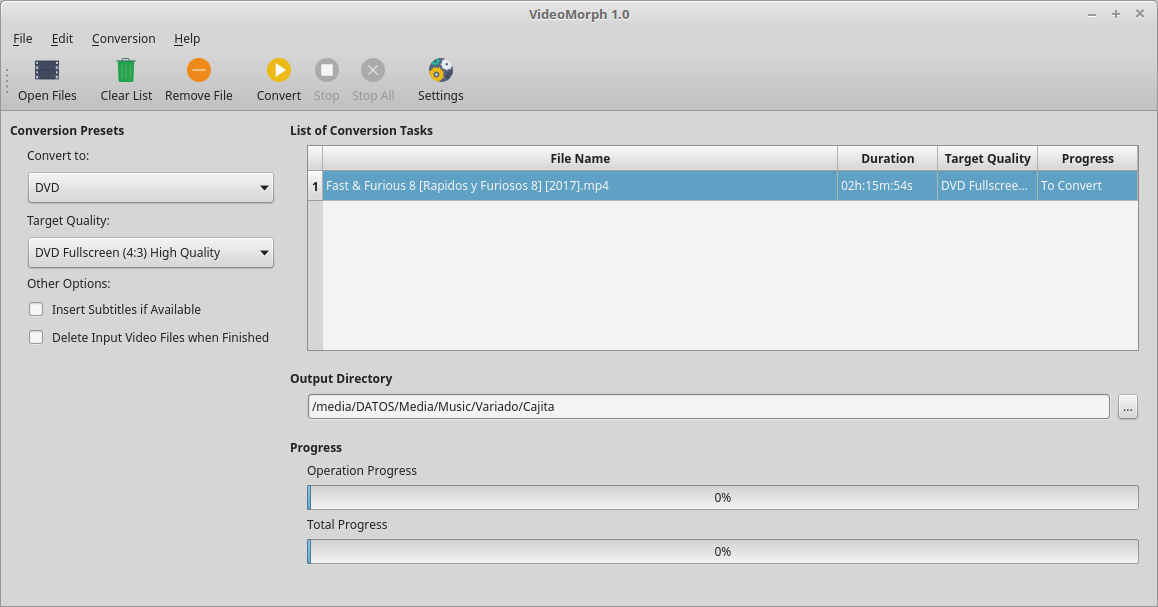
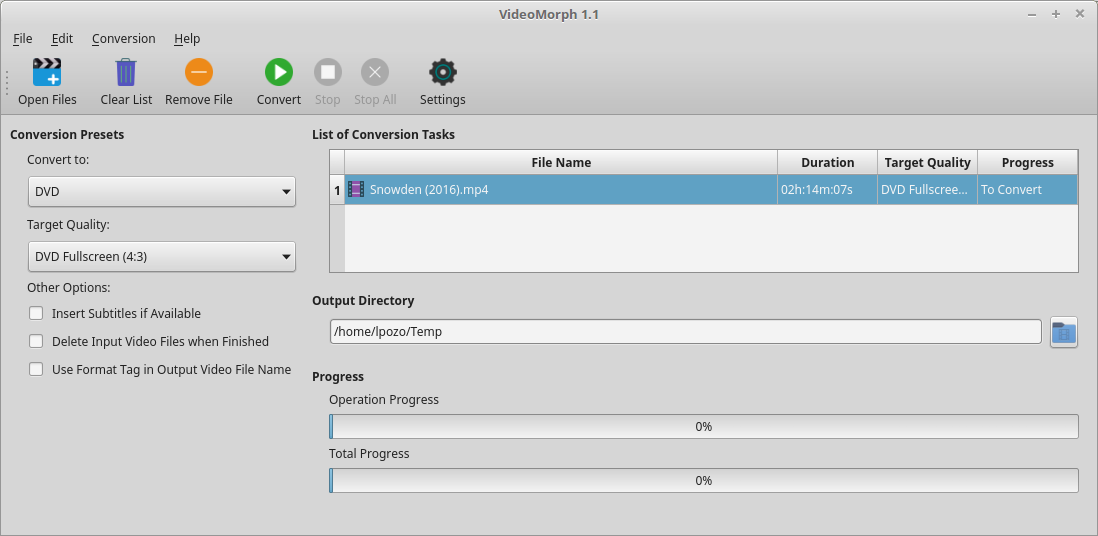
Final Chages for Releasing v1.1

Changed region(s): [[0.0, 0.0597, 0.9909, 0.9552], [0.4335, 0.0, 0.5574, 0.0597], [0.9599, 0.0, 0.9909, 0.0299]]

diff --git a/setup.py b/setup.py
@@ -30,11 +30,11 @@ from videomorph import VM_PATHS
 
 
 LONG_DESC = """Small Video Converter based on ffmpeg, Python 3 and Qt5.
-Unlike other video converters, VideoMorph focuses on a single task,
-convert video, making it simple, easy to use and allowing the user
-choose from a list of popular video formats.
+Unlike other video converters, VideoMorph focuses on a single goal:
+make video conversion simple, with an easy to use GUI and allowing
+the user to convert to the currently most popular video formats.
 
-VideoMorph UI is simple and clean focused on usability, eliminating
+VideoMorph GUI is simple and clean, focused on usability, eliminating
 annoying options rarely used.
 VideoMorph is a video converter, just that. If you want a video
 editor, VideoMorph isn't for you.

diff --git a/videomorph/converter/utils.py b/videomorph/converter/utils.py
@@ -20,15 +20,15 @@
 """This module contains some utilities and functions."""
 
 import os
+from locale import getdefaultlocale
 from subprocess import PIPE
 from subprocess import Popen
 
 
 def get_locale():
     """Return the default locale string."""
-    # return ('es_ES' if getdefaultlocale()[0] == 'es_CU' else
-    #         getdefaultlocale()[0])
-    return 'es_ES'
+    return ('es_ES' if getdefaultlocale()[0] == 'es_CU' else
+            getdefaultlocale()[0])
 
 
 def spawn_process(cmd):

diff --git a/README.md b/README.md
@@ -15,10 +15,10 @@ and presets idea from [QWinFF](http://qwinff.github.io) and
 ## Goal
 
 Unlike other video converters, VideoMorph focuses on a single goal:
-video conversion, making it simple, easy to use and allowing the user to convert
-to the currently most popular video formats.
+make video conversion simple, with an easy to use GUI and allowing
+the user to convert to the currently most popular video formats.
 
-VideoMorph UI is simple and clean, focused on usability, eliminating annoying options rarely used.
+VideoMorph GUI is simple and clean, focused on usability, eliminating annoying options rarely used.
 VideoMorph is a video converter, just that. If you want a video editor,
 VideoMorph isn't for you.
 
@@ -28,22 +28,25 @@ To install the package:
 
     sudo python3 setup.py install # This does not install dependencies
 
+This only installs VideoMorph. The [ffmpeg](http://ffmpeg.org) package should be installed
+or compiled in your distribution.
+
     or:
 
-    sudo install.sh # This does install dependencies
+    sudo install.sh
+
+This should install VideoMorph and its dependencies, including [ffmpeg](http://ffmpeg.org) package.
 
 To install the .deb file
 
-    use GDebi Packages Installer, just that...
+    use GDebi Packages Installer and follow the instructions, just that...
 
-This only installs VideoMorph. The [ffmpeg](http://ffmpeg.org) package should be installed
-or compiled in your distribution.
+This should install VideoMorph and its dependencies from your distro repo.
 
 ## Acknowledgements
 
 VideoMorph uses the following libraries and programs:
 
- - [Qt5](http://www.qt.io/qt5-4/)
  - [PyQt5](https://riverbankcomputing.com/software/pyqt/download5)
  - [FFmpeg](ffmpeg.org)
 
@@ -72,3 +75,7 @@ Contributors:
 
  - [Maikel Llamaret Heredia](http://gutl.jovenclub.cu)
  - [Carlos Parra Zaldivar](http://libreoffice.cubava.cu)
+
+Copyright:
+
+    Copyright 2016-2017 VideoMorph Development Team
